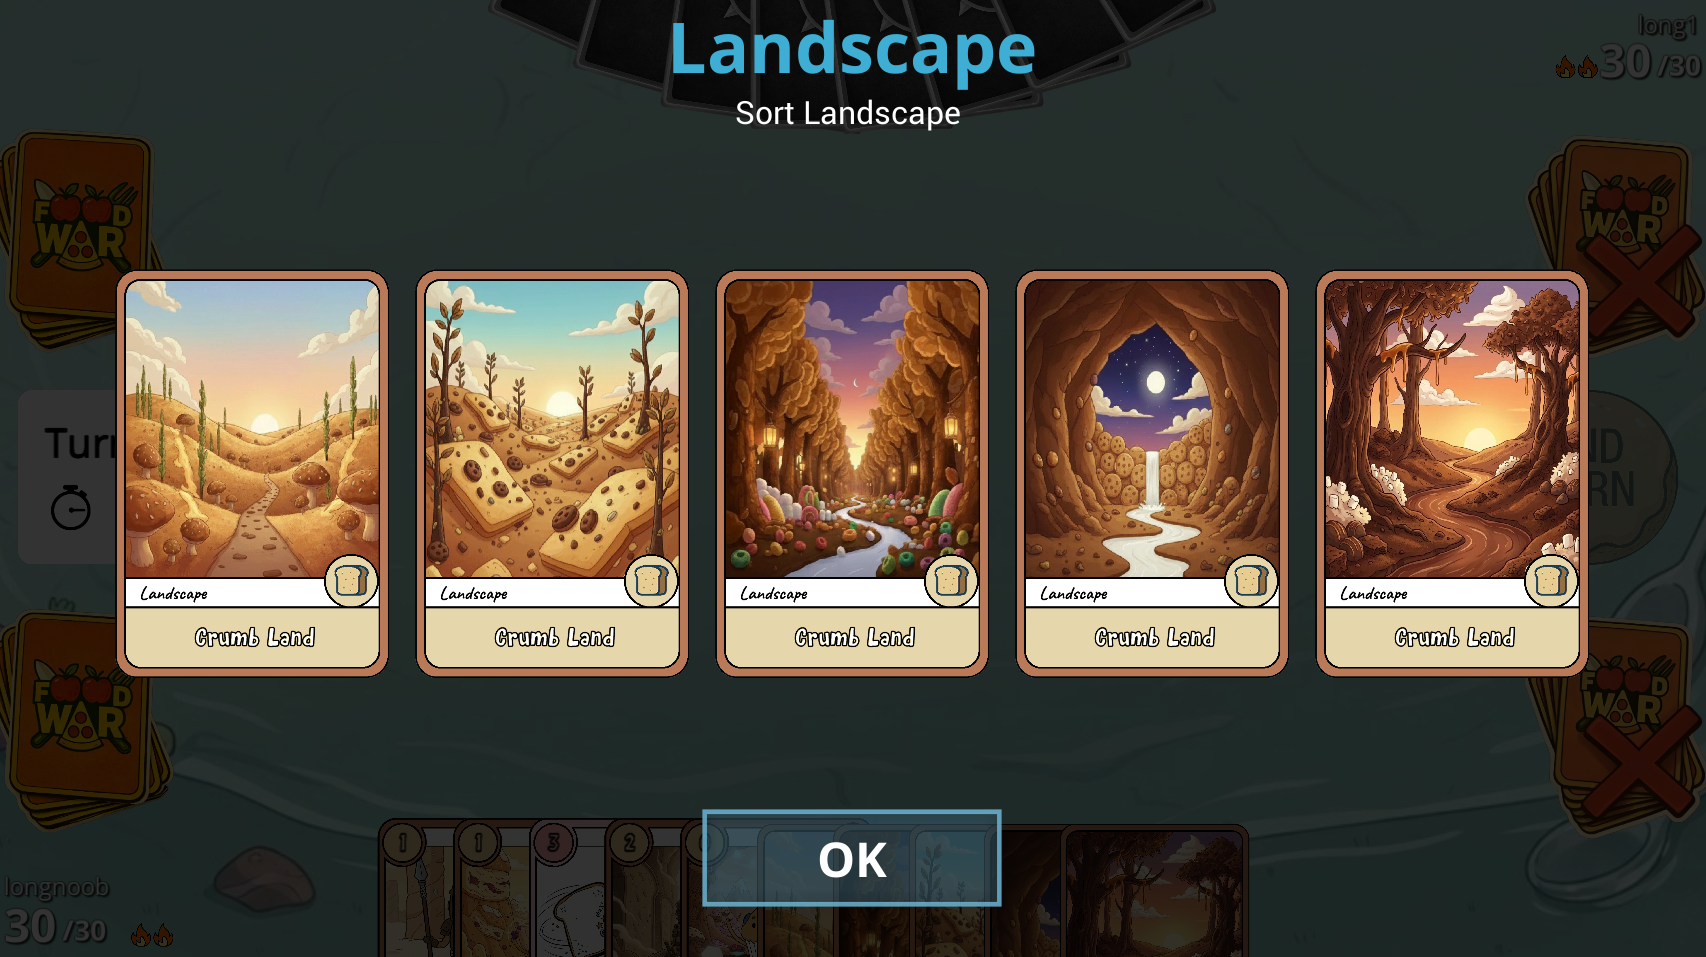
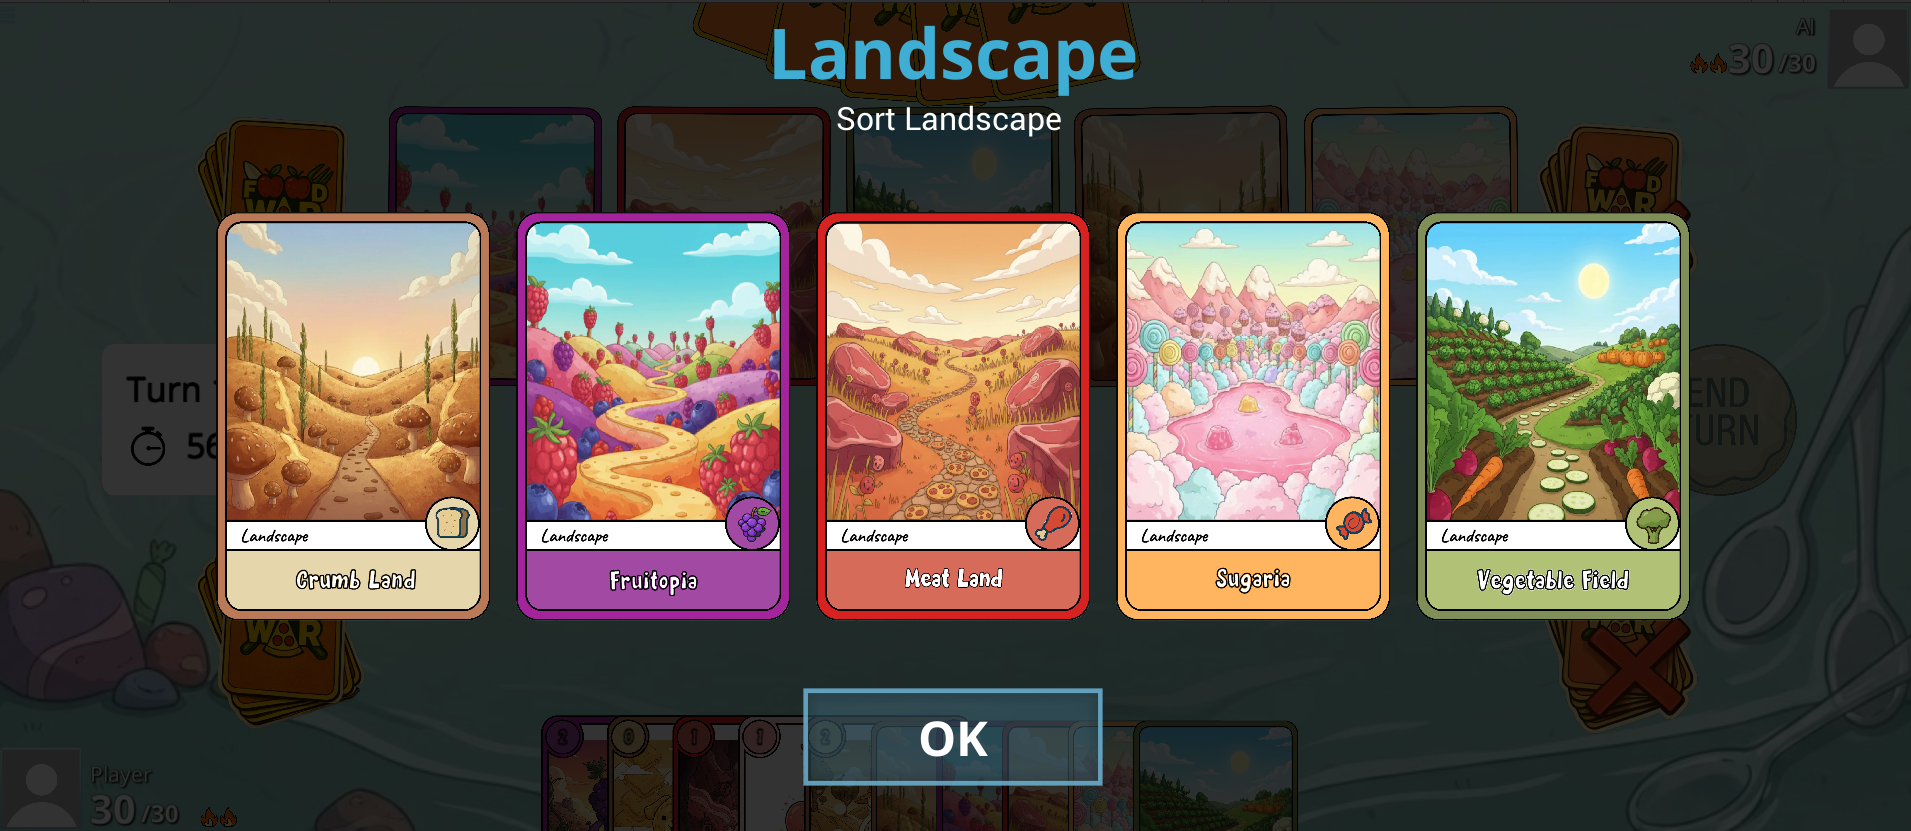
update img and index

diff --git a/index.html b/index.html
@@ -523,6 +523,77 @@
                     <div class="project">
 
                         <div class="project-header">
+                            <img src="asset/FoodWar/icon.jpg" alt="Icon" class="project-icon">
+
+                            <div class="project-title-info">
+                                <div class="project-title">Food War</div>
+                                <!-- GENRE -->
+                                <div class="project-meta">
+                                    <span class="tag"
+                                          data-en="2D"
+                                          data-vi="2D">
+                                        2D
+                                    </span>
+
+                                    <span class="tag"
+                                          data-en="Card Game"
+                                          data-vi="Game thẻ bài">
+                                        Card Game
+                                    </span>
+
+                                    <span class="tag"
+                                          data-en="Cartoon"
+                                          data-vi="Hoạt hình">
+                                        Cartoon
+                                    </span>
+
+                                    <span class="tag"
+                                          data-en="Strategy"
+                                          data-vi="Chiến thuật">
+                                        Strategy
+                                    </span>
+
+                                    <span class="tag"
+                                          data-en="Multiplayer"
+                                          data-vi="Nhiều người chơi">
+                                        Multiplayer
+                                    </span>
+
+                                </div>
+                            </div>
+
+                        </div>
+
+
+                        <!-- STORE LINKS -->
+                        <div class="project-links">
+                            <!-- STORY -->
+                            <div class="project-story"
+                                 data-en="The world of Gastronomia is losing its taste! The dreaded Bland Army has launched a colorless assault, stealing away every flavor and hue in existence. Enter Pep, a young, ordinary chef suddenly thrust into destiny when chosen by the mythical Ancient Holy Spoon. To defeat the Bland King and stop his plot to turn the universe into a boring, gray void, Pep must embark on a tasty quest across five unique culinary realms to gather the legendary Golden Ingredients. Pack your bags, sharpen your spoon, and get ready for the ultimate Food War!"
+                                 data-vi="Thế giới Gastronomia đang dần mất đi hương vị! Đội quân Vô Vị đáng sợ đã khơi mào một cuộc tấn công không màu sắc, cướp đi mọi mùi vị và sắc màu đang tồn tại. Giữa bối cảnh đó, Pep — một đầu bếp trẻ tuổi, bình thường — bỗng chốc được đặt vào tay sứ mệnh định mệnh khi được lựa chọn bởi chiếc Thìa Thần Cổ Đại trong truyền thuyết. Để đánh bại Quái Vương Vô Vị và ngăn chặn âm mưu biến vũ trụ thành một khoảng không xám xịt, tẻ nhạt của hắn, Pep phải dấn thân vào một cuộc hành trình đầy 'thơm ngon' băng qua 5 vùng đất ẩm thực độc nhất vô nhị để thu thập những Nguyên Liệu Vàng huyền thoại. Hãy sửa soạn hành trang, mài sắc chiếc thìa của bạn và sẵn sàng cho trận đại chiến ẩm thực đỉnh cao!">
+                                The world of Gastronomia is losing its taste! The dreaded Bland Army has launched a colorless assault, stealing away every flavor and hue in existence. Enter Pep, a young, ordinary chef suddenly thrust into destiny when chosen by the mythical Ancient Holy Spoon. To defeat the Bland King and stop his plot to turn the universe into a boring, gray void, Pep must embark on a tasty quest across five unique culinary realms to gather the legendary Golden Ingredients. Pack your bags, sharpen your spoon, and get ready for the ultimate Food War!                           
+                                </div>
+
+                            <!-- GALLERY -->
+                            <div class="gallery">
+                                <div class="gallery-track">
+                                    <img src="asset/FoodWar/food_war1.png" draggable="false">
+                                    <img src="asset/FoodWar/food_war2.png" draggable="false">
+                                    <img src="asset/FoodWar/food_war3.png" draggable="false">
+                                    <img src="asset/FoodWar/food_war4.png" draggable="false">
+                                    <img src="asset/FoodWar/food_war5.png" draggable="false">
+                                    <img src="asset/FoodWar/food_war6.png" draggable="false">
+                                    <img src="asset/FoodWar/food_war7.png" draggable="false">
+                                    <img src="asset/FoodWar/food_war8.png" draggable="false">
+
+                                </div>
+                            </div>
+                        </div>
+                    </div>
+
+                    <div class="project">
+
+                        <div class="project-header">
                             <img src="asset/Commandos3D/icon.png" alt="Icon" class="project-icon">
 
                             <div class="project-title-info">
